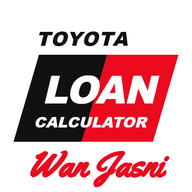
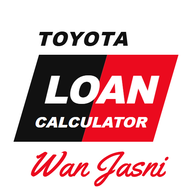
Ikon: Wan Jasni berat biasa (tidak tebal)

Changed region(s): [[0.4688, 0.7812, 0.9062, 1.0], [0.1562, 0.7812, 0.4688, 0.9375]]

diff --git a/assets/icon-src.html b/assets/icon-src.html
@@ -18,7 +18,7 @@
   <text x="262" y="276" text-anchor="middle" font-family="Arial Black, Arial, sans-serif" font-weight="900" font-style="italic" font-size="104" fill="#fff" letter-spacing="-2" textLength="300" lengthAdjust="spacingAndGlyphs">LOAN</text>
   <text x="240" y="340" text-anchor="middle" font-family="Arial Black, Arial, sans-serif" font-weight="900" font-style="italic" font-size="38" fill="#fff" textLength="300" lengthAdjust="spacingAndGlyphs">CALCULATOR</text>
   <!-- WAN JASNI -->
-  <!-- Fon berus: Yellowtail (Google Fonts, OFL) — paling hampir dengan Monster Clubhouse; ditebalkan dengan stroke -->
-  <text x="256" y="470" text-anchor="middle" font-family="'Monster Clubhouse', 'Yellowtail', cursive" font-size="92" fill="#eb0a1e" stroke="#eb0a1e" stroke-width="4" stroke-linejoin="round">Wan Jasni</text>
+  <!-- Fon berus: Yellowtail (Google Fonts, OFL), berat biasa (tidak ditebalkan) -->
+  <text x="256" y="470" text-anchor="middle" font-family="'Monster Clubhouse', 'Yellowtail', cursive" font-weight="400" font-size="92" fill="#eb0a1e">Wan Jasni</text>
 </svg>
 </body></html>
